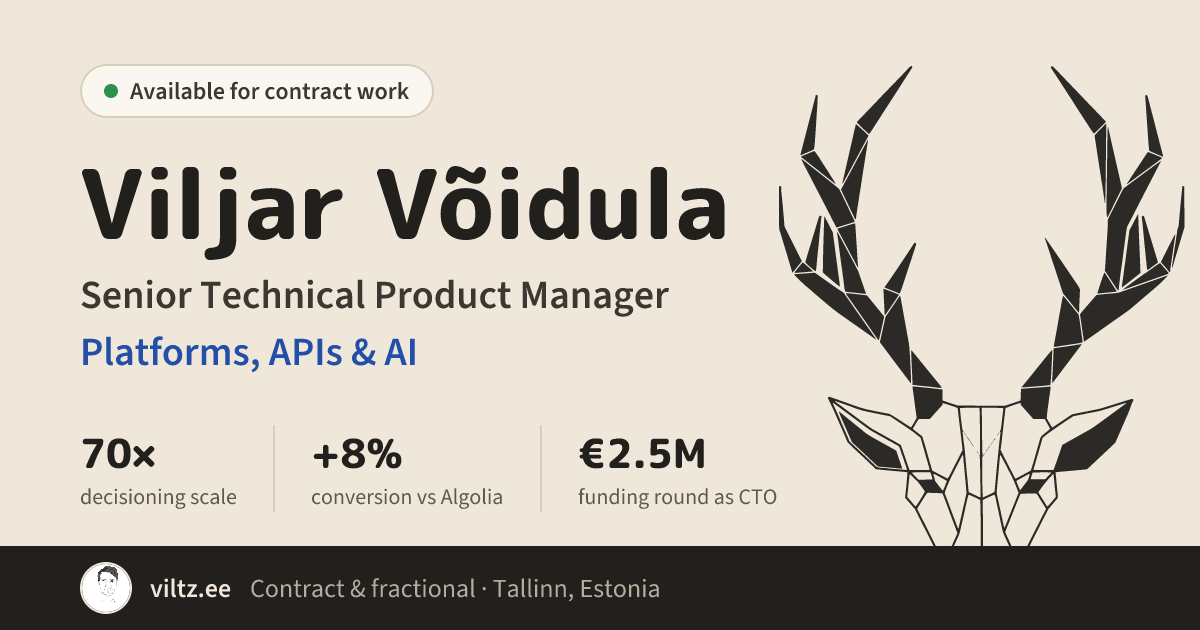
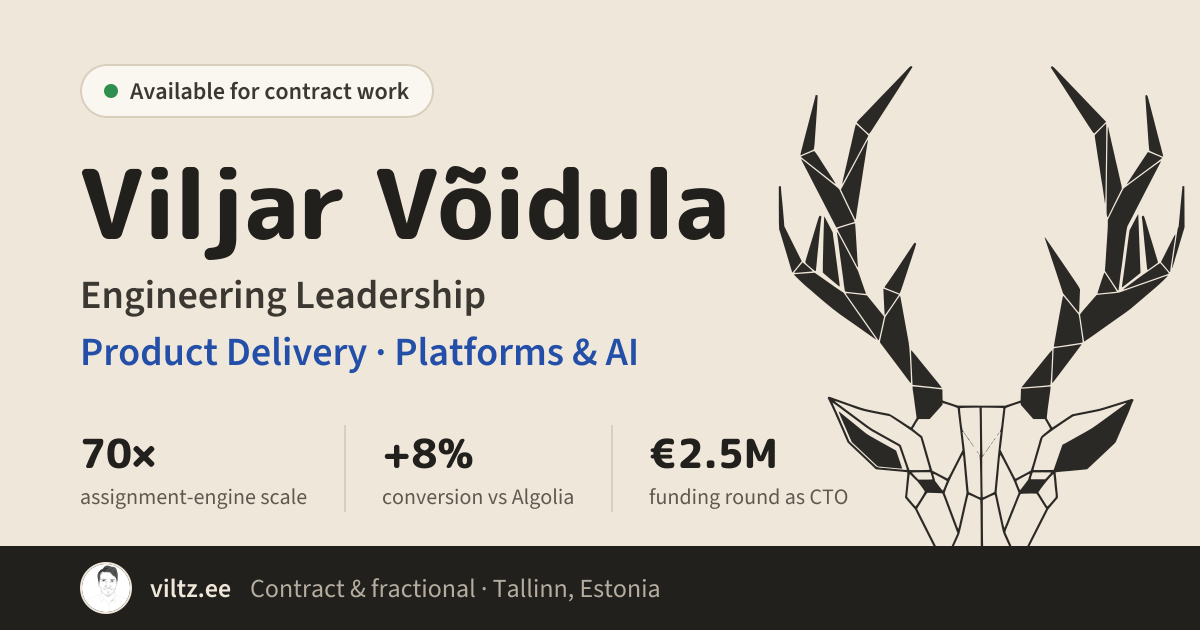
fix: content update

Changed region(s): [[0.0617, 0.4222, 0.555, 0.6032], [0.0617, 0.6937, 0.7092, 0.8143], [0.2467, 0.6937, 0.4008, 0.754]]

diff --git a/lib/cv.ts b/lib/cv.ts
@@ -1,9 +1,9 @@
 export const profile = {
   name: 'Viljar Võidula',
-  title: 'Senior Technical Product Manager · Platforms, APIs & AI',
+  title: 'Engineering Leadership · Product Delivery · Platforms & AI',
   greeting: 'Hello, I am a software development enthusiast based in Estonia.',
   summary:
-    'Technical product manager who came up through engineering — solutions architect, staff engineer and team lead, then interim CTO and founder. Strongest at rule-driven decisioning, matching quality and API contract design in regulated identity workflows.',
+    'Engineering leader with experience as a team lead, staff engineer, interim CTO and founder in product companies. I develop engineers through coaching, feedback and real ownership, and stay responsible from problem definition through delivery and operations — scalable systems and AI products with measurable customer impact.',
   email: 'viljar@5xer.com',
   linkedin: 'https://www.linkedin.com/in/viljar-voidula',
   github: 'https://github.com/ViljarVoidula',
@@ -17,16 +17,16 @@ export const contract = {
     'Hi Viljar,\n\nProject:\nTimeline:\nBudget range:\nHow you found me:\n'
   )}`,
   pitch:
-    'I take on contract and fractional work where product and engineering meet — usually when a team needs someone who can write the spec, design the system and stay through delivery.',
+    'I take on contract and fractional work where engineering, product and the business meet — usually when a team needs someone to set direction, design the system and stay through delivery and operations.',
   offers: [
-    { title: 'Product discovery & specs', body: 'Turn a fuzzy problem into a written spec: schema, rules, failure cases and what “done” means.' },
-    { title: 'Decisioning & matching systems', body: 'Routing, assignment and matching engines — measured with precision, recall and false-positive cost.' },
-    { title: 'API & integration design', body: 'REST/GraphQL contracts, webhooks and versioning that partner teams can build against without you.' },
+    { title: 'Interim CTO & engineering leadership', body: 'Set priorities and ownership through a growth phase, and coach the team that carries it forward.' },
+    { title: 'Architecture & platform', body: 'Distributed systems, GraphQL APIs, Kubernetes and AWS — designed to scale, observable and cost-aware.' },
+    { title: 'Assignment & decisioning systems', body: 'Task-distribution, routing and matching engines that hold up at volume, with low latency and auditable decisions.' },
     {
-      title: 'AI transformation & adoption',
+      title: 'AI products & adoption',
       body: 'Find where LLM workflows actually pay off, build them with human review where mistakes are costly, and get the team using them.'
     },
-    { title: 'Interim CTO & due diligence', body: 'Technical leadership through a growth phase, or the technical side of a funding round.' }
+    { title: 'Technical due diligence', body: 'The technical side of a funding round or acquisition — from either side of the table.' }
   ],
   terms: [
     { label: 'Engagement', value: 'Fractional or fixed project' },
@@ -48,37 +48,37 @@ export const metrics: Metric[] = [
   {
     metric: '70×',
     count: { to: 70, suffix: '×' },
-    title: 'Decisioning at scale',
-    body: 'Veriff’s task-assignment engine, routing verification sessions to reviewers under SLA — scaled from 10,000 to 700,000+ sessions at sub-second latency.'
+    title: 'Scale',
+    body: 'Built Veriff’s task-assignment engine and helped scale it from 10,000 to 700,000+ sessions with sub-second distribution latency.'
   },
   {
     metric: '+8%',
     count: { to: 8, prefix: '+', suffix: '%' },
-    title: 'Matching beat Algolia',
-    body: 'Owned matching and relevance for an AI search product that won a customer A/B test against Algolia and lifted conversion by about 8%.'
+    title: 'Product results',
+    body: 'Helped launch Miros’ AI search product, which beat Algolia in a customer A/B test and lifted conversion by approximately 8%.'
+  },
+  {
+    metric: '99.999%',
+    count: { to: 99.999, decimals: 3, suffix: '%' },
+    title: 'Reliability and cost',
+    body: 'Maintained five-nines availability for major retail customers while reducing AWS spend.'
   },
   {
     metric: '€2.5M',
     count: { to: 2.5, decimals: 1, prefix: '€', suffix: 'M' },
     title: 'Funding round',
-    body: 'As interim CTO, led customer, partner and investor conversations, including technical due diligence for a €2.5M round.'
-  },
-  {
-    metric: '99.999%',
-    count: { to: 99.999, decimals: 3, suffix: '%' },
-    title: 'Availability',
-    body: 'Held five-nines availability for major retail customers while reducing AWS spend.'
+    body: 'As interim CTO, led investor technical due diligence for a successful €2.5M round.'
   }
 ];
 
 export const otherImpact: { title: string; body: string }[] = [
   {
-    title: 'Measurement for detection quality.',
-    body: 'Designed an Airbyte, Amazon RDS and BigQuery platform processing millions of events per hour, used to validate algorithm behaviour in SQL.'
+    title: 'People and organisational leadership.',
+    body: 'Led and coached engineers at Veriff; set company-wide engineering priorities as interim CTO at Miros.'
   },
   {
-    title: 'LLM automation with guardrails.',
-    body: 'Workflows that turn unstructured signals into reviewable, high-precision output, with human review to contain costly false positives.'
+    title: 'Data platform.',
+    body: 'Designed an Airbyte, Amazon RDS and BigQuery platform processing millions of events per hour.'
   }
 ];
 
@@ -93,29 +93,27 @@ export type Role = {
 
 export const roles: Role[] = [
   {
-    title: 'Founder & Product Owner',
+    title: 'Technical Contractor / Consultant',
+    company: 'Veriff',
+    where: 'Tallinn',
+    dates: 'Oct 2025 – present',
+    logo: '/images/logos/veriff.png',
+    bullets: [
+      'Own modernisation of the reviewer task-distribution system, from discovery to rollout, improving reliability, maintainability and operational flow.',
+      'Work with engineering and product to turn recurring operational problems into scoped, prioritised improvements.',
+      'Build and review Node.js microservices and GraphQL integrations; improve operational data for prioritisation and production diagnosis.'
+    ]
+  },
+  {
+    title: 'Founder & Technical Co-Founder',
     company: 'Fivexer',
     where: 'formerly Forgemaster AI · Remote',
     dates: 'Oct 2024 – present',
     logo: '/images/logos/fivexer.png',
     bullets: [
-      'Led the pivot from Forgemaster AI to Fivexer when discovery showed the bigger problem: who does the work.',
-      'Own an engine that plans rotas and routes tasks to people or AI agents, with an auditable reason per decision.',
-      'Define REST APIs, JSON schemas and webhook contracts, and review the code.',
-      'Run demos and pricing talks with prospects, feeding findings into the roadmap.'
-    ]
-  },
-  {
-    title: 'Technical Contractor — Product & Platform',
-    company: 'Veriff',
-    where: 'Tallinn',
-    dates: 'Oct 2025 – Sep 2026',
-    logo: '/images/logos/veriff.png',
-    bullets: [
-      'Owned modernisation of the reviewer task-distribution system, from discovery to rollout.',
-      'Specified and reviewed REST/GraphQL contracts and event flows around the decisioning engine.',
-      'Improved operational data so throughput, queues and edge cases are measured.',
-      'Turned recurring compliance-operations pain into scoped, prioritised increments.'
+      'Led the pivot from a knowledge platform for code, documentation and AI assistants to an assignment engine for hybrid human and AI teams, based on customer discovery.',
+      'Own product direction, architecture, full-stack delivery, LLM integrations, Kubernetes infrastructure and operations.',
+      'Turn customer feedback into a prioritised roadmap; build rota planning, skills-based routing and auditable assignment decisions.'
     ]
   },
   {
@@ -125,23 +123,23 @@ export const roles: Role[] = [
     dates: 'Jan – Aug 2024',
     logo: '/images/logos/miros.png',
     bullets: [
-      'Owned technical and product priorities through a growth phase, aligning build with sales.',
-      'Launched an AI search platform that beat Algolia in a customer A/B test and lifted conversion by about 8%.',
-      'Led technical due diligence for a €2.5M funding round.',
-      'Held 99.999% availability for major retail customers while cutting AWS spend.'
+      'Set engineering priorities and ownership during a growth phase, aligning technical and product decisions with company goals.',
+      'Launched the AI e-commerce search platform that delivered approximately 8% higher conversion in a customer A/B test against Algolia.',
+      'Balanced availability, performance and cloud costs; maintained 99.999% availability for major retail customers while reducing AWS spend.',
+      'Led investor technical due diligence for a successful €2.5M funding round.'
     ]
   },
   {
-    title: 'Staff Engineer — Search & Platform',
+    title: 'Staff Engineer',
     company: 'Miros',
     where: 'Estonia',
     dates: 'Mar 2023 – Aug 2024',
     logo: '/images/logos/miros.png',
     bullets: [
-      'Owned search relevance: tokenisation, fuzzy and multilingual matching, ranking.',
-      'Built the measurement platform (millions of events per hour) and its validation SQL.',
-      'Shipped a public GraphQL API for independent customer and team integrations.',
-      'Led the AWS and Kubernetes migration and introduced OpenTelemetry observability.'
+      'Led the AWS migration and platform architecture for an AI product search engine running on Kubernetes.',
+      'Refactored the backend behind a public GraphQL API, enabling product teams to deliver independently.',
+      'Introduced OpenTelemetry observability, production metrics and shared on-call to improve operability.',
+      'Designed an Airbyte, Amazon RDS and BigQuery data platform processing millions of events per hour.'
     ]
   },
   {
@@ -151,9 +149,9 @@ export const roles: Role[] = [
     dates: 'Jan 2022 – Jan 2023',
     logo: '/images/logos/veriff.png',
     bullets: [
-      'Built the rule-driven task-assignment engine routing verification sessions to reviewers under SLA; helped scale it from 10,000 to 700,000+ sessions.',
-      'Designed a unified GraphQL gateway so neighbouring teams shipped independently.',
-      'Led and coached the team; made written proposals and design review the norm.'
+      'Led and developed engineers through 1:1s, direct feedback, mentoring, design reviews and delegated ownership.',
+      'Built the task-assignment engine and helped scale distribution from 10,000 to 700,000+ sessions with sub-second latency.',
+      'Designed a unified GraphQL gateway that decoupled neighbouring teams’ delivery; drove adoption of domain-driven design across engineering.'
     ]
   }
 ];
@@ -163,35 +161,34 @@ export const earlierRoles: { title: string; meta: string; summary: string }[] = 
   {
     title: 'Solutions Architect',
     meta: 'Telia Eesti · 2019 – 2021',
-    summary: 'Provisioning platform for custom MPLS services; IoT architecture for Tartu SmartEnCity.'
+    summary: 'Led IoT architecture for Tartu SmartEnCity; designed, developed and maintained a service delivery orchestration platform for MPLS services, covering IPAM integration, configuration parsing and provisioning.'
   },
   {
     title: 'Founder',
     meta: 'Testreel · 2014 – 2021',
-    summary: 'Ran hiring, delivery, sales and partnerships through a successful exit in 2021.'
+    summary: 'Built and led the company across hiring, delivery, sales, customer relationships and partnerships; delivered multimedia products and exited successfully in 2021.'
   },
   {
-    title: 'Network monitoring → software testing',
+    title: 'Network administrator → QA engineer',
     meta: 'Elion / Telia · 2011 – 2014',
-    summary: 'QA on the Samsung Smart TV app that won the IFA 2012 Innovation award.'
+    summary:
+      'Tested Samsung and LG TV firmware and Telia’s TV application, and was Telia’s technical contact for both partners. The Samsung Smart TV app won the IFA 2012 Innovation award.'
   }
 ];
 
 export const skills: { name: string; list: string }[] = [
-  { name: 'Product management', list: 'Technical discovery, specification writing, roadmap & prioritisation, stakeholder management, pricing & packaging' },
-  { name: 'API & integration design', list: 'REST, GraphQL, JSON Schemas, webhooks, contract & versioning strategy, partner integrations' },
-  { name: 'Matching & detection', list: 'Fuzzy & multilingual matching, tokenisation, relevance ranking, precision/recall trade-offs, Vespa, Qdrant' },
-  { name: 'Rules & decisioning', list: 'Decisioning & routing engines, SLA-driven prioritisation, queue design, human-in-the-loop review' },
-  { name: 'Data & analysis', list: 'SQL, PostgreSQL, BigQuery, Airbyte, A/B testing, product metrics' },
-  { name: 'AI & automation', list: 'LLM workflows, OpenAI, Anthropic, Mistral, vector databases, unstructured data extraction' },
-  { name: 'Engineering fluency', list: 'Node.js, TypeScript, microservices, AWS, Kubernetes, CI/CD, code & schema review' },
-  { name: 'Regulated & client-facing', list: 'KYC / KYB identity verification, telecommunications, technical due diligence, client enablement' }
+  { name: 'People', list: 'Team leadership, hiring, coaching, career development, performance management, direct feedback' },
+  { name: 'Delivery', list: 'Roadmap execution, prioritisation, cross-functional alignment, code and design reviews, CI/CD, GitHub Actions, GitLab CI, A/B testing' },
+  { name: 'Backend & data', list: 'Node.js, TypeScript, distributed systems, microservices, API design, GraphQL, PostgreSQL, Redis, MongoDB, BigQuery, Airbyte' },
+  { name: 'Cloud & operations', list: 'AWS, Kubernetes, Docker, Terraform, Pulumi, on-call, incident response, cost optimisation' },
+  { name: 'Observability', list: 'OpenTelemetry, distributed tracing, Prometheus, Grafana, SigNoz, production metrics and alerting' },
+  { name: 'AI', list: 'LLM applications and workflows, AI assistant integrations, MLOps, OpenAI, Anthropic, vector search' }
 ];
 
 export const principles: { title: string; body: string }[] = [
-  { title: 'Freedom to think', body: 'Room to question the problem and find a better answer — not a backlog to grind through.' },
-  { title: 'Objectives, then results', body: 'A few key objectives everyone understands, followed through to measurable results — OKRs over sprint rituals.' },
-  { title: 'Closest to the user', body: 'I work directly with customers and front-line teams; their problems set the priorities.' }
+  { title: 'Clear context and ownership', body: 'Connect work to customer outcomes and delegate meaningful decisions.' },
+  { title: 'Practical execution', body: 'Make trade-offs visible, plan realistic increments and surface risks early.' },
+  { title: 'Continuous improvement', body: 'Use feedback, design reviews and incident follow-up to improve systems.' }
 ];
 
 export type Project = {

diff --git a/pages/index.tsx b/pages/index.tsx
@@ -14,7 +14,7 @@ import styles from '../styles/cv.module.css';
 const title = `${profile.name} — ${profile.title}`;
 // Kept under ~160 characters so search results show it whole.
 const description =
-  'Senior technical product manager in Estonia for platforms, APIs and AI. Former staff engineer and interim CTO, available for contract and fractional work.';
+  'Engineering leader in Estonia: team lead, staff engineer, interim CTO, founder. Platforms, product delivery and AI. Open to contract and fractional work.';
 const ogImage = `${profile.url}og.png`;
 const ogImageAlt = `${profile.name} — ${profile.title}. Available for contract work.`;
 
@@ -89,10 +89,10 @@ const Home = () => (
       <Image src="/images/viljar.jpg" alt={`Portrait of ${profile.name}`} width={64} height={64} className={styles.portrait} />
       <div className={styles.prose}>
         <p>
-          <strong>Now:</strong> founder &amp; product owner of <a href="https://5xer.com">Fivexer</a> — and open to contract work alongside it.
+          <strong>Now:</strong> founder &amp; technical co-founder of <a href="https://5xer.com">Fivexer</a> — and open to contract work alongside it.
         </p>
         <p>
-          <strong>Next:</strong> a product company with an interesting problem to solve.
+          <strong>Next:</strong> an engineering leadership role in a product company with an interesting problem to solve.
         </p>
       </div>
     </div>
@@ -174,7 +174,7 @@ const Home = () => (
         </div>
         <div className={styles.row}>
           <dt>Languages</dt>
-          <dd>Estonian (native) · English (fluent) · German (basic)</dd>
+          <dd>Estonian (native) · English (proficient) · German (low proficiency)</dd>
         </div>
         <div className={styles.row}>
           <dt>Interests</dt>

diff --git a/lib/cv-markdown.ts b/lib/cv-markdown.ts
@@ -93,7 +93,7 @@ export const llmsFullTxt = () =>
     '',
     '## Personal',
     '',
-    '- Languages: Estonian (native), English (fluent), German (basic)',
+    '- Languages: Estonian (native), English (proficient), German (low proficiency)',
     '- Licensed private pilot, PPL(A). Snowboarding for 18 years. Helped build the handmade log house that is home.',
     `- Books: ${books.map(book => `${book.title} (${book.author})`).join('; ')}`,
     ''

diff --git a/lib/structured-data.ts b/lib/structured-data.ts
@@ -33,7 +33,7 @@ export const structuredData = {
       alternateName: 'Viljar Voidula',
       givenName: 'Viljar',
       familyName: 'Võidula',
-      jobTitle: 'Senior Technical Product Manager',
+      jobTitle: 'Engineering Leader',
       description: profile.summary,
       url: profile.url,
       email: `mailto:${profile.email}`,
